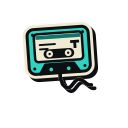
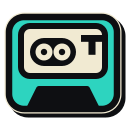
1.21.4: ícones 128 e 48 maiores (cassete alto que preenche o quadrado), mesmo ícone na loja

diff --git a/design/logo-final/gerar.py b/design/logo-final/gerar.py
@@ -83,13 +83,25 @@ def barra():
     a += f'<path d="M30 104 L40 84 H88 L98 104" fill="{CARV}" stroke-width="7"/>'
     return adesivo(sil, a, rot=0, sombra=0, halo=8, traco=8)
 
+
+# ---------- 128 e 48 px: o cassete alto (mesma silhueta da barra), com o T e sombra curta, preenchendo o quadrado ----------
+def cheio(tam):
+    sil = '<rect x="10" y="12" width="108" height="92" rx="15"/>'
+    a = f'<rect x="10" y="12" width="108" height="92" rx="15" fill="{TEAL}"/>'
+    a += f'<rect x="22" y="21" width="84" height="50" rx="9" fill="{MARF}" stroke-width="6"/>'
+    a += f'<rect x="31" y="33" width="46" height="28" rx="14" fill="{CARV}" stroke="none"/>'
+    a += dots([(45, 47, 8.5), (63, 47, 8.5)], MARF) + dots([(45, 47, 3.2), (63, 47, 3.2)])
+    a += f'<g transform="translate(82 30) scale(1.1)">{T}</g>'
+    a += f'<path d="M30 104 L40 84 H88 L98 104" fill="{CARV}" stroke-width="6"/>'
+    return adesivo(sil, a, rot=0, sombra=4, halo=9 if tam >= 128 else 8, traco=6.5)
+
 VB_QUAD = "-8 -8 144 144"
 arquivos = {"completo": (completo(), VB_QUAD), "medio": (medio(), VB_QUAD),
-            "mini": (mini(False), "-4 8 136 112"), "barra": (barra(), "3 -2 122 122")}
+            "mini": (mini(False), "-4 8 136 112"), "barra": (barra(), "3 -2 122 122"), "cheio128": (cheio(128), "1 -5 128 128"), "cheio48": (cheio(48), "1 -5 128 128")}
 for k, (corpo, vb) in arquivos.items():
     open(f"fita-{k}.svg", "w").write(svg(corpo, vb))
 os.makedirs("../../extension/icons", exist_ok=True)
-for tam, k in ((128, "completo"), (48, "medio"), (32, "barra"), (24, "barra"), (16, "barra")):
+for tam, k in ((128, "cheio128"), (48, "cheio48"), (32, "barra"), (24, "barra"), (16, "barra")):
     subprocess.run(["rsvg-convert", "-w", str(tam), "-h", str(tam), "-a", "-b", "none", f"fita-{k}.svg",
                     "-o", f"../../extension/icons/icon-{tam}.png"], check=True)
 print("ok")

diff --git a/store/gerar.py b/store/gerar.py
@@ -152,7 +152,7 @@ pagina("captura-5-privacidade", 1280, 800, f"""
 
 icone = re.sub(r'viewBox="[^"]+"', 'viewBox="-32 -32 192 192"', open(os.path.join(RAIZ, "../design/logo-final/fita-completo.svg")).read(), count=1)
 open(os.path.join(RAIZ, "src", "store-icon.svg"), "w").write(icone)
-subprocess.run(["rsvg-convert", "-w", "128", "-h", "128", "-a", "-b", "none", os.path.join(RAIZ, "src", "store-icon.svg"), "-o", os.path.join(RAIZ, "out", VARIANTE, "icone-loja-128.png")], check=True)
+import shutil; shutil.copy(os.path.join(RAIZ, "../extension/icons/icon-128.png"), os.path.join(RAIZ, "out", VARIANTE, "icone-loja-128.png"))  # o ícone da loja é o mesmo da extensão: cassete alto, preenche o quadrado
 if len(sys.argv) > 2 and sys.argv[2] == "so-html": sys.exit()
 for nome, w, h in [("tile-440x280-pt", 440, 280), ("tile-440x280-en", 440, 280), ("marquee-1400x560-pt", 1400, 560), ("marquee-1400x560-en", 1400, 560),
                    ("captura-1-transcricao", 1280, 800), ("captura-2-arquivo", 1280, 800), ("captura-3-agenda-pauta", 1280, 800), ("captura-4-pautas", 1280, 800), ("captura-5-privacidade", 1280, 800)]:
